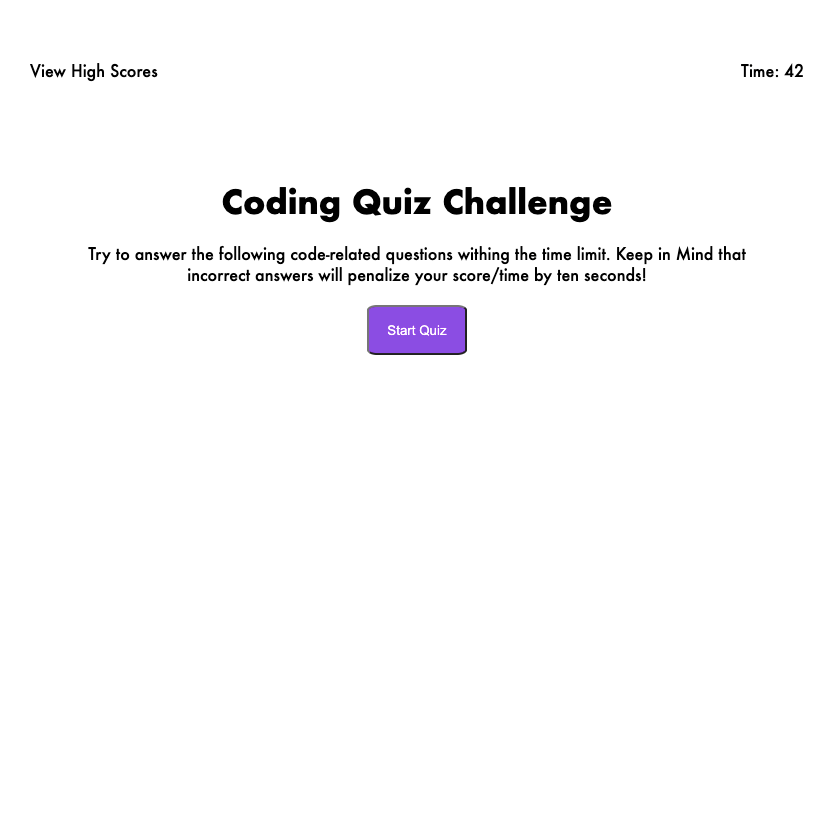
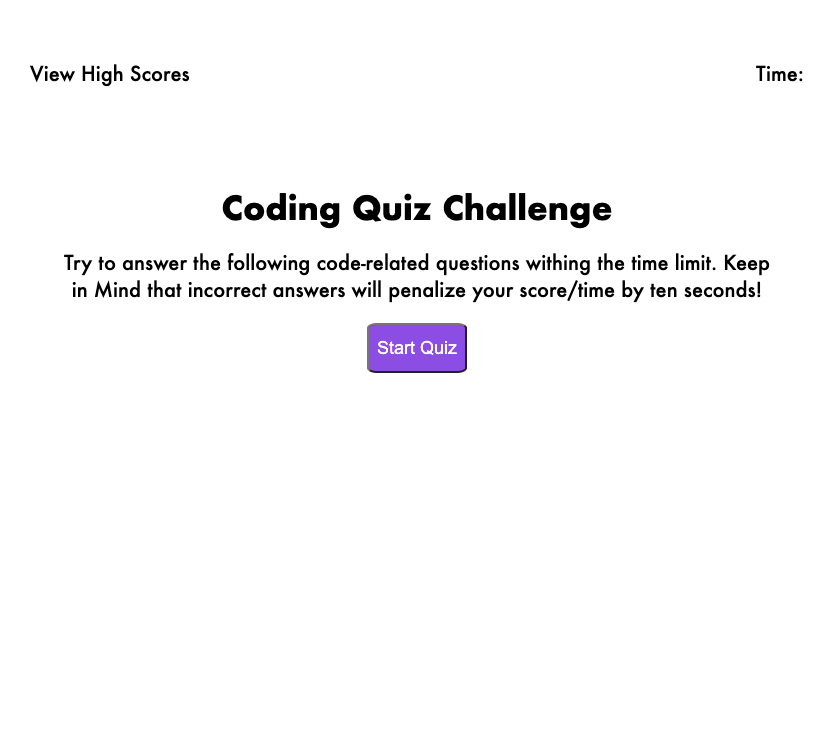
update style.css and readme.md

Changed region(s): [[0.0624, 0.2188, 0.9353, 0.5312], [0.0312, 0.0625, 0.2182, 0.125], [0.8729, 0.0625, 0.9664, 0.125]]

diff --git a/assets/css/style.css b/assets/css/style.css
@@ -42,18 +42,26 @@ main {
     text-align: center;
 }
 
-a {
-    text-decoration: none;
-
-    color: black;
-}
-
 h1 {
     margin: 20px;
 }
 
+h2 {
+    margin: 40px;
+}
+
+h3 {
+    margin: 40px;
+}
+
 p {
     margin: 20px;
+
+    font-size: 20px;
+}
+
+label {
+    font-size: 20px;
 }
 
 /* || MAIN PAGE STYLES */
@@ -77,6 +85,8 @@ button.start-quiz-button {
     height: 50px;
 
     border-radius: 10%;
+
+    font-size: 18px;
 }
 /* ol element for questions */
 .answer-list {
@@ -116,6 +126,7 @@ button.submit-score {
 
     border-radius: 10%;
 
+    font-size: 22px;
 }
 
 button.high-score-button {
@@ -128,6 +139,8 @@ button.high-score-button {
     height: 30px;
 
     border-radius: 10%;
+    
+    font-size: 22px;
 
 }
 
